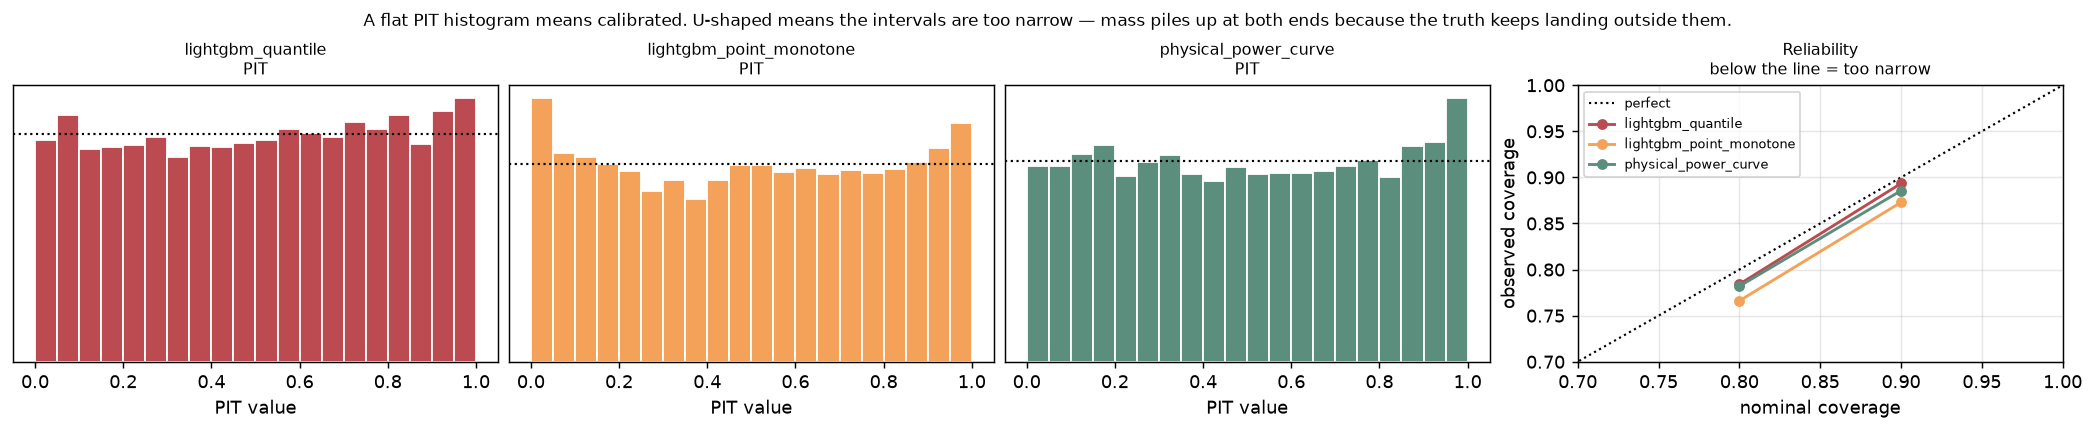
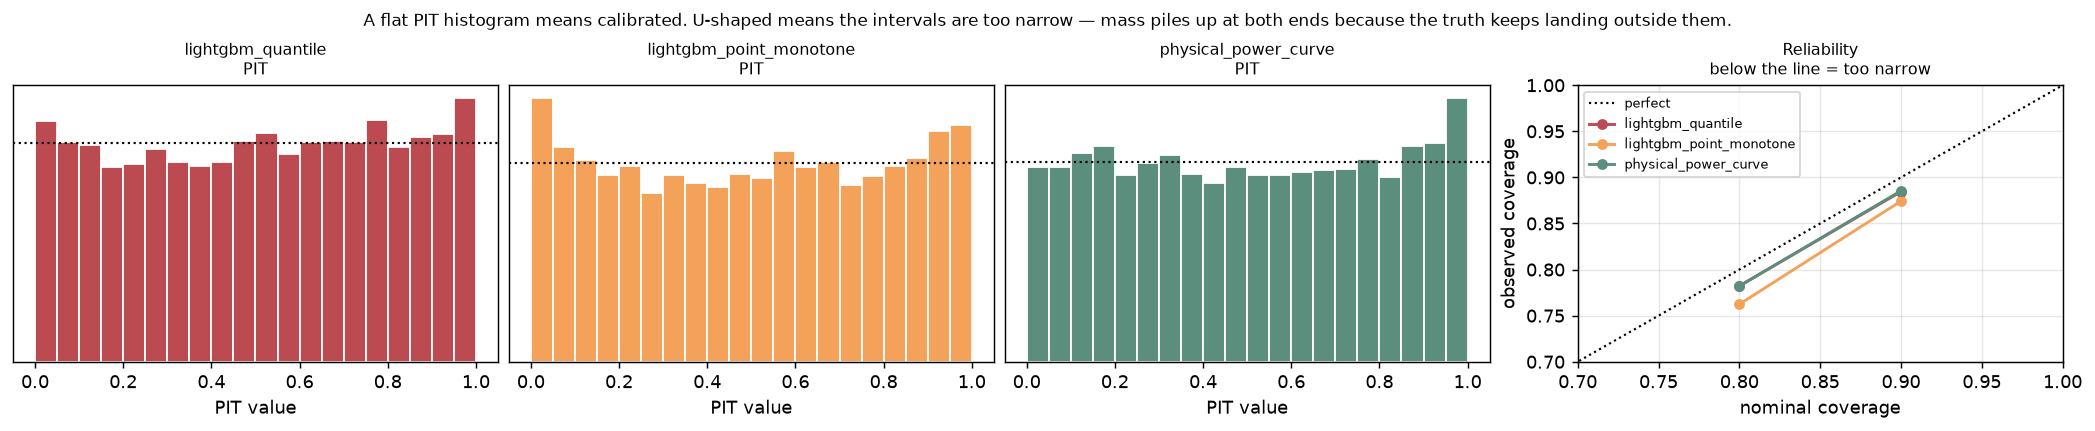
fix(research): missing NWP values no longer read as zero wind
wind.aggregate used nansum, so an all-missing cluster-hour became 0.0 -- a forecast of
dead calm -- and a partly missing one was biased low. One IFS run (2025-08-07) came
back from the API as HTTP 200 with every value null and halved the 2025-08-08 forecast
(613 MW median against 1,239 MW actual); a few Open-Meteo hours were affected too.
Now a capacity-weighted mean over the clusters that have data, NaN when none do, and
ifs_runs.parse rejects an all-null run as a gap.

Leaderboard: nMAE 0.0262 -> 0.0258 (120 MW), CRPS 0.0198 -> 0.0196, coverage 0.782.

diff --git a/research/src/renewable_forecast/features/wind.py b/research/src/renewable_forecast/features/wind.py
@@ -281,10 +281,19 @@ def aggregate(
     value_columns = [c for c in frame.columns if c not in {*keys, "point_id", "weight"}]
 
     def _collapse(group: pd.DataFrame) -> pd.Series:
-        weight = group.weight.to_numpy(dtype=float, copy=True)
-        weight /= weight.sum()
+        weight = group.weight.to_numpy(dtype=float)
         values = group[value_columns].to_numpy(dtype=float)
-        weighted = np.nansum(values * weight[:, None], axis=0)
+        # Weighted mean over the clusters that have a value, with the weights
+        # renormalised over those clusters; NaN when none do. A plain nansum turns an
+        # all-missing hour into 0.0 -- a forecast of dead calm -- and biases a partly
+        # missing hour low. That happened: an IFS run that came back all-null
+        # (2025-08-07) was read as zero wind and halved the forecast.
+        finite = np.isfinite(values)
+        mass = (finite * weight[:, None]).sum(axis=0)
+        total = np.where(finite, values, 0.0).T @ weight
+        weighted = np.divide(
+            total, mass, out=np.full(len(value_columns), np.nan), where=mass > 0
+        )
         result = dict(zip(value_columns, weighted, strict=True))
         # Dispersion across clusters, for the features where it is physically meaningful.
         for column in dispersion:

diff --git a/research/tests/test_wind_features.py b/research/tests/test_wind_features.py
@@ -121,3 +121,27 @@ def test_icing_memory_persists_after_conditions_clear() -> None:
     assert out.icing_6h.iloc[5] == 3.0, "memory must survive the conditions clearing"
     assert out.icing_6h.iloc[11] == 0.0, "and must eventually decay"
     assert out.icing_24h.iloc[11] == 3.0
+
+
+def test_aggregate_never_turns_missing_clusters_into_calm() -> None:
+    """All-missing hours must stay missing; partly missing ones must not be biased low."""
+    import numpy as np
+    import pandas as pd
+
+    from renewable_forecast.features import wind
+
+    points = pd.DataFrame(
+        {
+            "model": "m",
+            "valid_time": pd.to_datetime(
+                ["2025-01-01 00:00"] * 2 + ["2025-01-01 01:00"] * 2, utc=True
+            ),
+            "point_id": ["a", "b", "a", "b"],
+            "wind_speed_100m": [np.nan, np.nan, 8.0, np.nan],
+            "power_curve": [np.nan, np.nan, 0.5, np.nan],
+        }
+    )
+    weights = pd.DataFrame({"point_id": ["a", "b"], "weight": [0.25, 0.75]})
+    zonal = wind.aggregate(points, weights).set_index("valid_time")
+    assert np.isnan(zonal.wind_speed_100m.iloc[0]), "no data must not read as calm"
+    assert zonal.wind_speed_100m.iloc[1] == 8.0, "weights renormalise over present clusters"

diff --git a/research/src/renewable_forecast/sources/ifs_runs.py b/research/src/renewable_forecast/sources/ifs_runs.py
@@ -165,6 +165,11 @@ def parse(payload: list[dict], run: datetime, points: pd.DataFrame) -> pd.DataFr
         frame["point_id"] = point_id
         frames.append(frame)
     out = pd.concat(frames, ignore_index=True)
+    if out.wind_speed_100m.isna().all():
+        # Seen for three runs in 2025-08: HTTP 200 with every value null. That is a gap
+        # in the archive, and storing it would put a run of NaNs into the features.
+        msg = "run returned no wind values"
+        raise ValueError(msg)
     out["run_time"] = pd.Timestamp(run)
     lead = (out.valid_time - out.run_time).dt.total_seconds() / 3600
     return out[lead >= LEAD_FIRST].reset_index(drop=True)

diff --git a/research/reports/modelling.md b/research/reports/modelling.md
@@ -13,25 +13,29 @@ number below is a mean over the same 13,082 delivery hours — 546 days between
 
 The configured feature set now adds MET Norway MEPS and ECMWF IFS HRES, both addressed
 by model run (`configs/base.yaml: features.run_addressed`). The calibration layer is
-now `SpreadCQR`, fitted on cross-fitted residuals (`reports/calibration.md`). Scored on the days that have every source:
-**17 folds, 502 delivery days, 12,026 hours, 2024-10-02 → 2026-03-01**. That window is
-slightly shorter than v1's, so compare within this table.
+`SpreadCQR` fitted on cross-fitted residuals (`reports/calibration.md`). Scored on the
+days that have every source: **17 folds, 501 delivery days, 12,002 hours,
+2024-10-02 → 2026-03-01**. That window is slightly shorter than v1's, so compare within
+this table. It also includes the fix for missing weather values being averaged into
+zero wind (`features/wind.py`, `aggregate`).
 
-| forecaster | nMAE | nRMSE | nBIAS | CRPS | cov@80 | sharp@80 | CRPSS vs clim. |
-|---|---|---|---|---|---|---|---|
-| *A69_latest_vintage* | *0.0148* | *0.0245* | *0.0002* | *0.0119* | 0.765 | 0.040 | *+0.902* |
-| **lightgbm_quantile** | **0.0262** | 0.0360 | 0.0003 | **0.0198** | 0.784 | 0.083 | **+0.837** |
-| lightgbm_point_monotone | 0.0266 | 0.0365 | −0.0001 | 0.0207 | 0.766 | 0.078 | +0.829 |
-| ridge_sanity_floor | 0.0351 | 0.0466 | 0.0013 | 0.0268 | 0.767 | 0.104 | +0.779 |
-| physical_power_curve | 0.0357 | 0.0479 | 0.0036 | 0.0272 | 0.782 | 0.107 | +0.776 |
-| climatology | 0.1681 | 0.2155 | 0.0697 | 0.1210 | 0.750 | 0.465 | 0.000 |
-| persistence | 0.2013 | 0.2548 | 0.0012 | 0.1470 | 0.761 | 0.515 | −0.215 |
+| forecaster | nMAE | nRMSE | nBIAS | CRPS | cov@80 | cov@90 | sharp@80 | CRPSS vs clim. |
+|---|---|---|---|---|---|---|---|---|
+| *A69_latest_vintage* | *0.0148* | *0.0245* | *0.0002* | *0.0119* | 0.764 | 0.873 | 0.040 | *+0.902* |
+| **lightgbm_quantile** | **0.0258** | 0.0352 | 0.0000 | **0.0196** | 0.782 | 0.885 | 0.082 | **+0.839** |
+| lightgbm_point_monotone | 0.0264 | 0.0359 | −0.0003 | 0.0205 | 0.762 | 0.874 | 0.078 | +0.831 |
+| ridge_sanity_floor | 0.0352 | 0.0467 | 0.0012 | 0.0268 | 0.767 | 0.881 | 0.104 | +0.778 |
+| physical_power_curve | 0.0357 | 0.0479 | 0.0036 | 0.0272 | 0.782 | 0.885 | 0.107 | +0.776 |
+| climatology | 0.1682 | 0.2156 | 0.0697 | 0.1211 | 0.750 | 0.847 | 0.465 | 0.000 |
+| persistence | 0.2016 | 0.2551 | 0.0012 | 0.1471 | 0.761 | 0.882 | 0.514 | −0.215 |
 
-Against v1's shipping model: nMAE 0.0307 → 0.0262 (143 → 122 MW), CRPS 0.0232 →
-0.0198, 80% coverage 0.737 → 0.784. Machine learning now earns **27%** CRPS over the
-physical baseline, against 15% before. Of the gain, run-addressed weather is worth
-nMAE 0.0307 → 0.0271 and cross-fitted calibration 0.0271 → 0.0262. The physics baselines still read only the Open-Meteo block, so their lead
-curve keeps the full step at 34. The quantile model's step is about +20%.
+Against v1's shipping model: nMAE 0.0307 → 0.0258 (143 → 120 MW), CRPS 0.0232 →
+0.0196, 80% coverage 0.737 → 0.782. Machine learning now earns **28%** CRPS over the
+physical baseline, against 15% before. Of the gain, run-addressed weather accounts for
+nMAE 0.0307 → 0.0271, cross-fitted calibration for 0.0271 → 0.0262, and the
+missing-value fix for 0.0262 → 0.0258. The physics baselines still read only the
+Open-Meteo block, so their lead curve keeps the full step at 34. The quantile model's
+step is about +20%.
 
 Everything below this section describes **v1** (Open-Meteo only, 2026-09-20) and is
 kept as the record it was.
